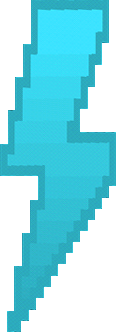
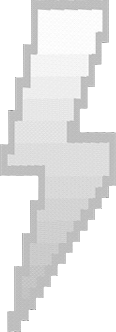
fix, add customizations

diff --git a/README.md b/README.md
@@ -22,8 +22,7 @@ A recreation of the ULTRAKILL HUD in Garry's Mod. Feel free to contribute!
 
 ### Potential TODOs
 #### Easy
-* More customizability - change UI colors in Addon settings
-* Opton to turn off ammo view and replace it with a lightning bolt ammo bar
+* Option to turn off ammo view and replace it with a lightning bolt ammo bar
 * Options to hide the fist and lightning bolt elements
 #### Hard
 * Option to combine shields and health into one bar representing overhealth
